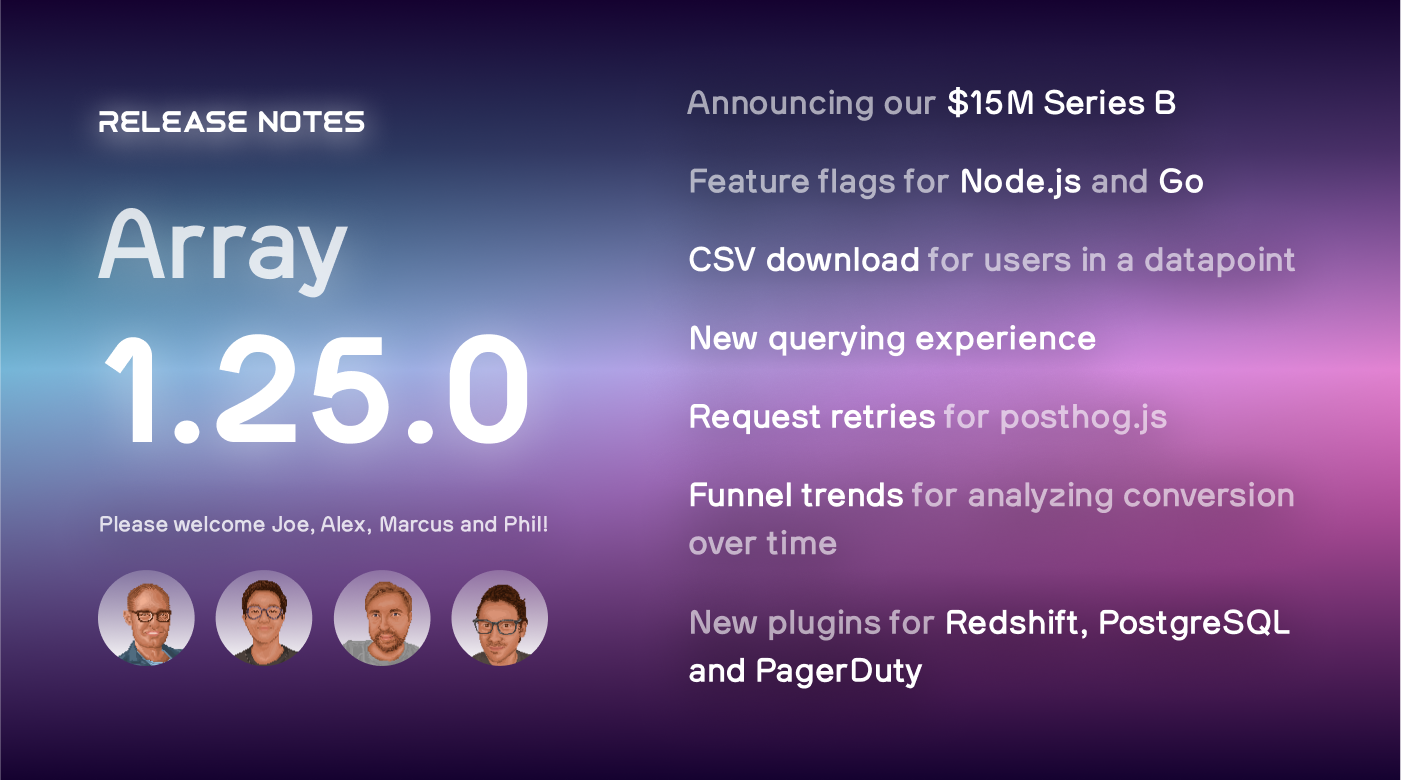
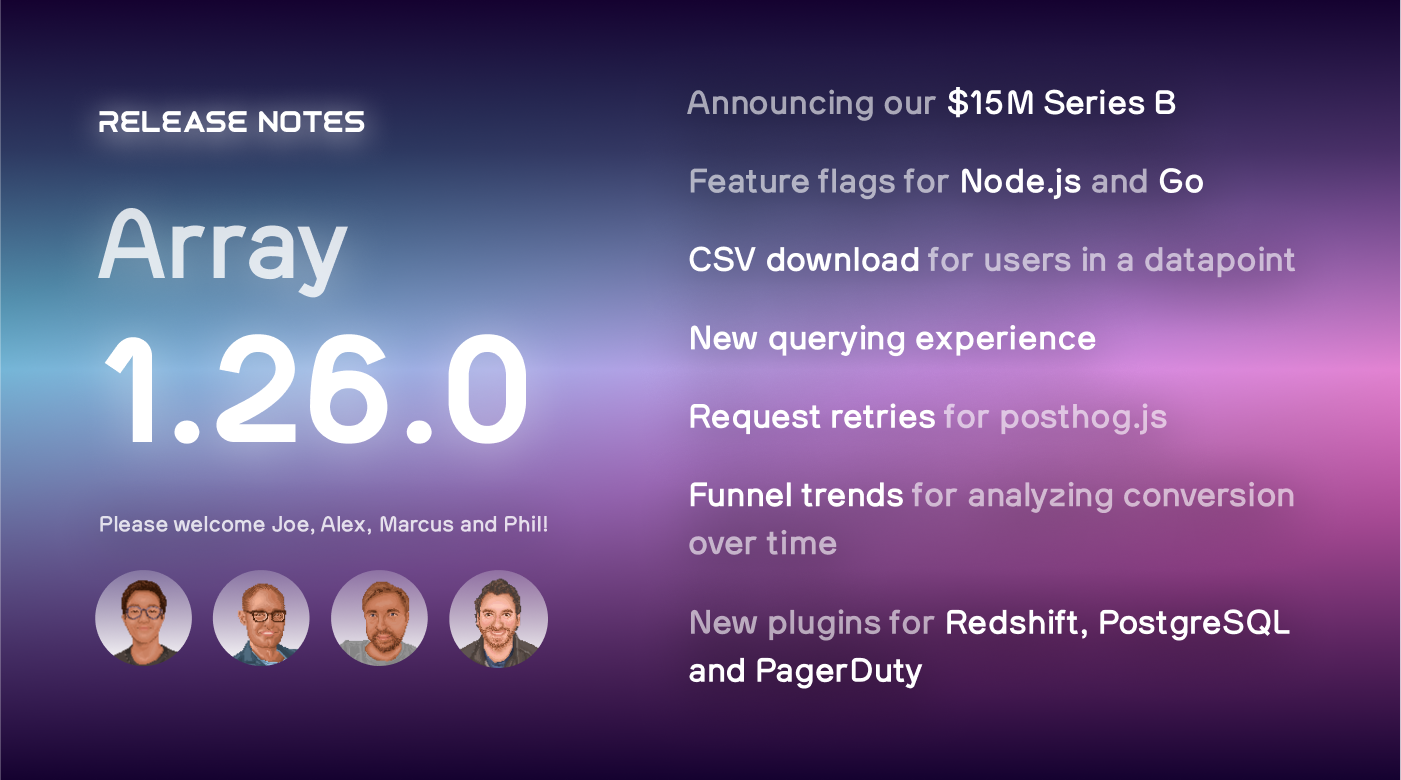
fixes

Changed region(s): [[0.0614, 0.7385, 0.399, 0.8615], [0.2148, 0.4308, 0.2762, 0.5538]]

diff --git a/contents/blog/the-posthog-array-1-26-0.md b/contents/blog/the-posthog-array-1-26-0.md
@@ -82,7 +82,7 @@ Thanks a lot for building this [c3ho](https://github.com/c3ho)!
 
 Continuing on the libraries theme, a much-requested feature is now live for `posthog-js`: retries!
 
-Requests that fail because of, for example, the client's network connection, or PostHog being down will now be retried up to 10 times within an hour, making sure you miss as few events as possible. So if your user's internet goes down and comes back up, you'll still receive the events that happened when they were offline.
+Requests that fail because of for example, the client's network connection, will now be retried up to 10 times within an hour, making sure you miss as few events as possible. So if your user's internet goes down and comes back up, you'll still receive the events that happened when they were offline.
 
 Also, Neil fixed a bug that sent requests to a wrong endpoint (with no impact on tracking). You can read about how Neil solved this issue on his [blog](https://neilkakkar.com/debugging-open-source.html).
 
@@ -116,7 +116,7 @@ We onboarded so many people this cycle that we decided to to make a table for it
 
 |  Name  |        Role         | 🍍 on 🍕? |                                                                                        Interesting Fact                                                                                        |
 | :----: | :-----------------: | :-----: | :--------------------------------------------------------------------------------------------------------------------------------------------------------------------------------------------: |
-|  Joe   |  Product Marketer   |    😍    |                   _"Jobs I had before I moved into marketing include (in order): Clown, Waiter, Hospital & Morgue Cleaner, Chainsaw Salesman, and Videogame Journalist."_                   |
+|  Joe   |  Product Marketer   |    😍    |                   _"Jobs I had before I moved into marketing include (in order): clown, waiter, hospital & morgue cleaner, chainsaw salesman, and videogame journalist."_                   |
 | Marcus |    VP of Product    |    🤮    |                                                  _"Jointly hold the world record for Most People Dressed As Santa Doing A Zip Line In One Hour."_                                                  |
 |  Alex  | Fullstack Developer |    😍    |                                                    _"I've visited all of NYC's secret subway stations without getting caught (yet)."_                                                    |
 |  Phil  | Developer Relations |    😍    | _"I made national press coverage (The Times, The Sun, The Mirror, Radio 5 Live... The Gainsborough Today :smirk:) in 2006 after creating a David Beckham website called 'Bring Back Beckham.'"_ |
